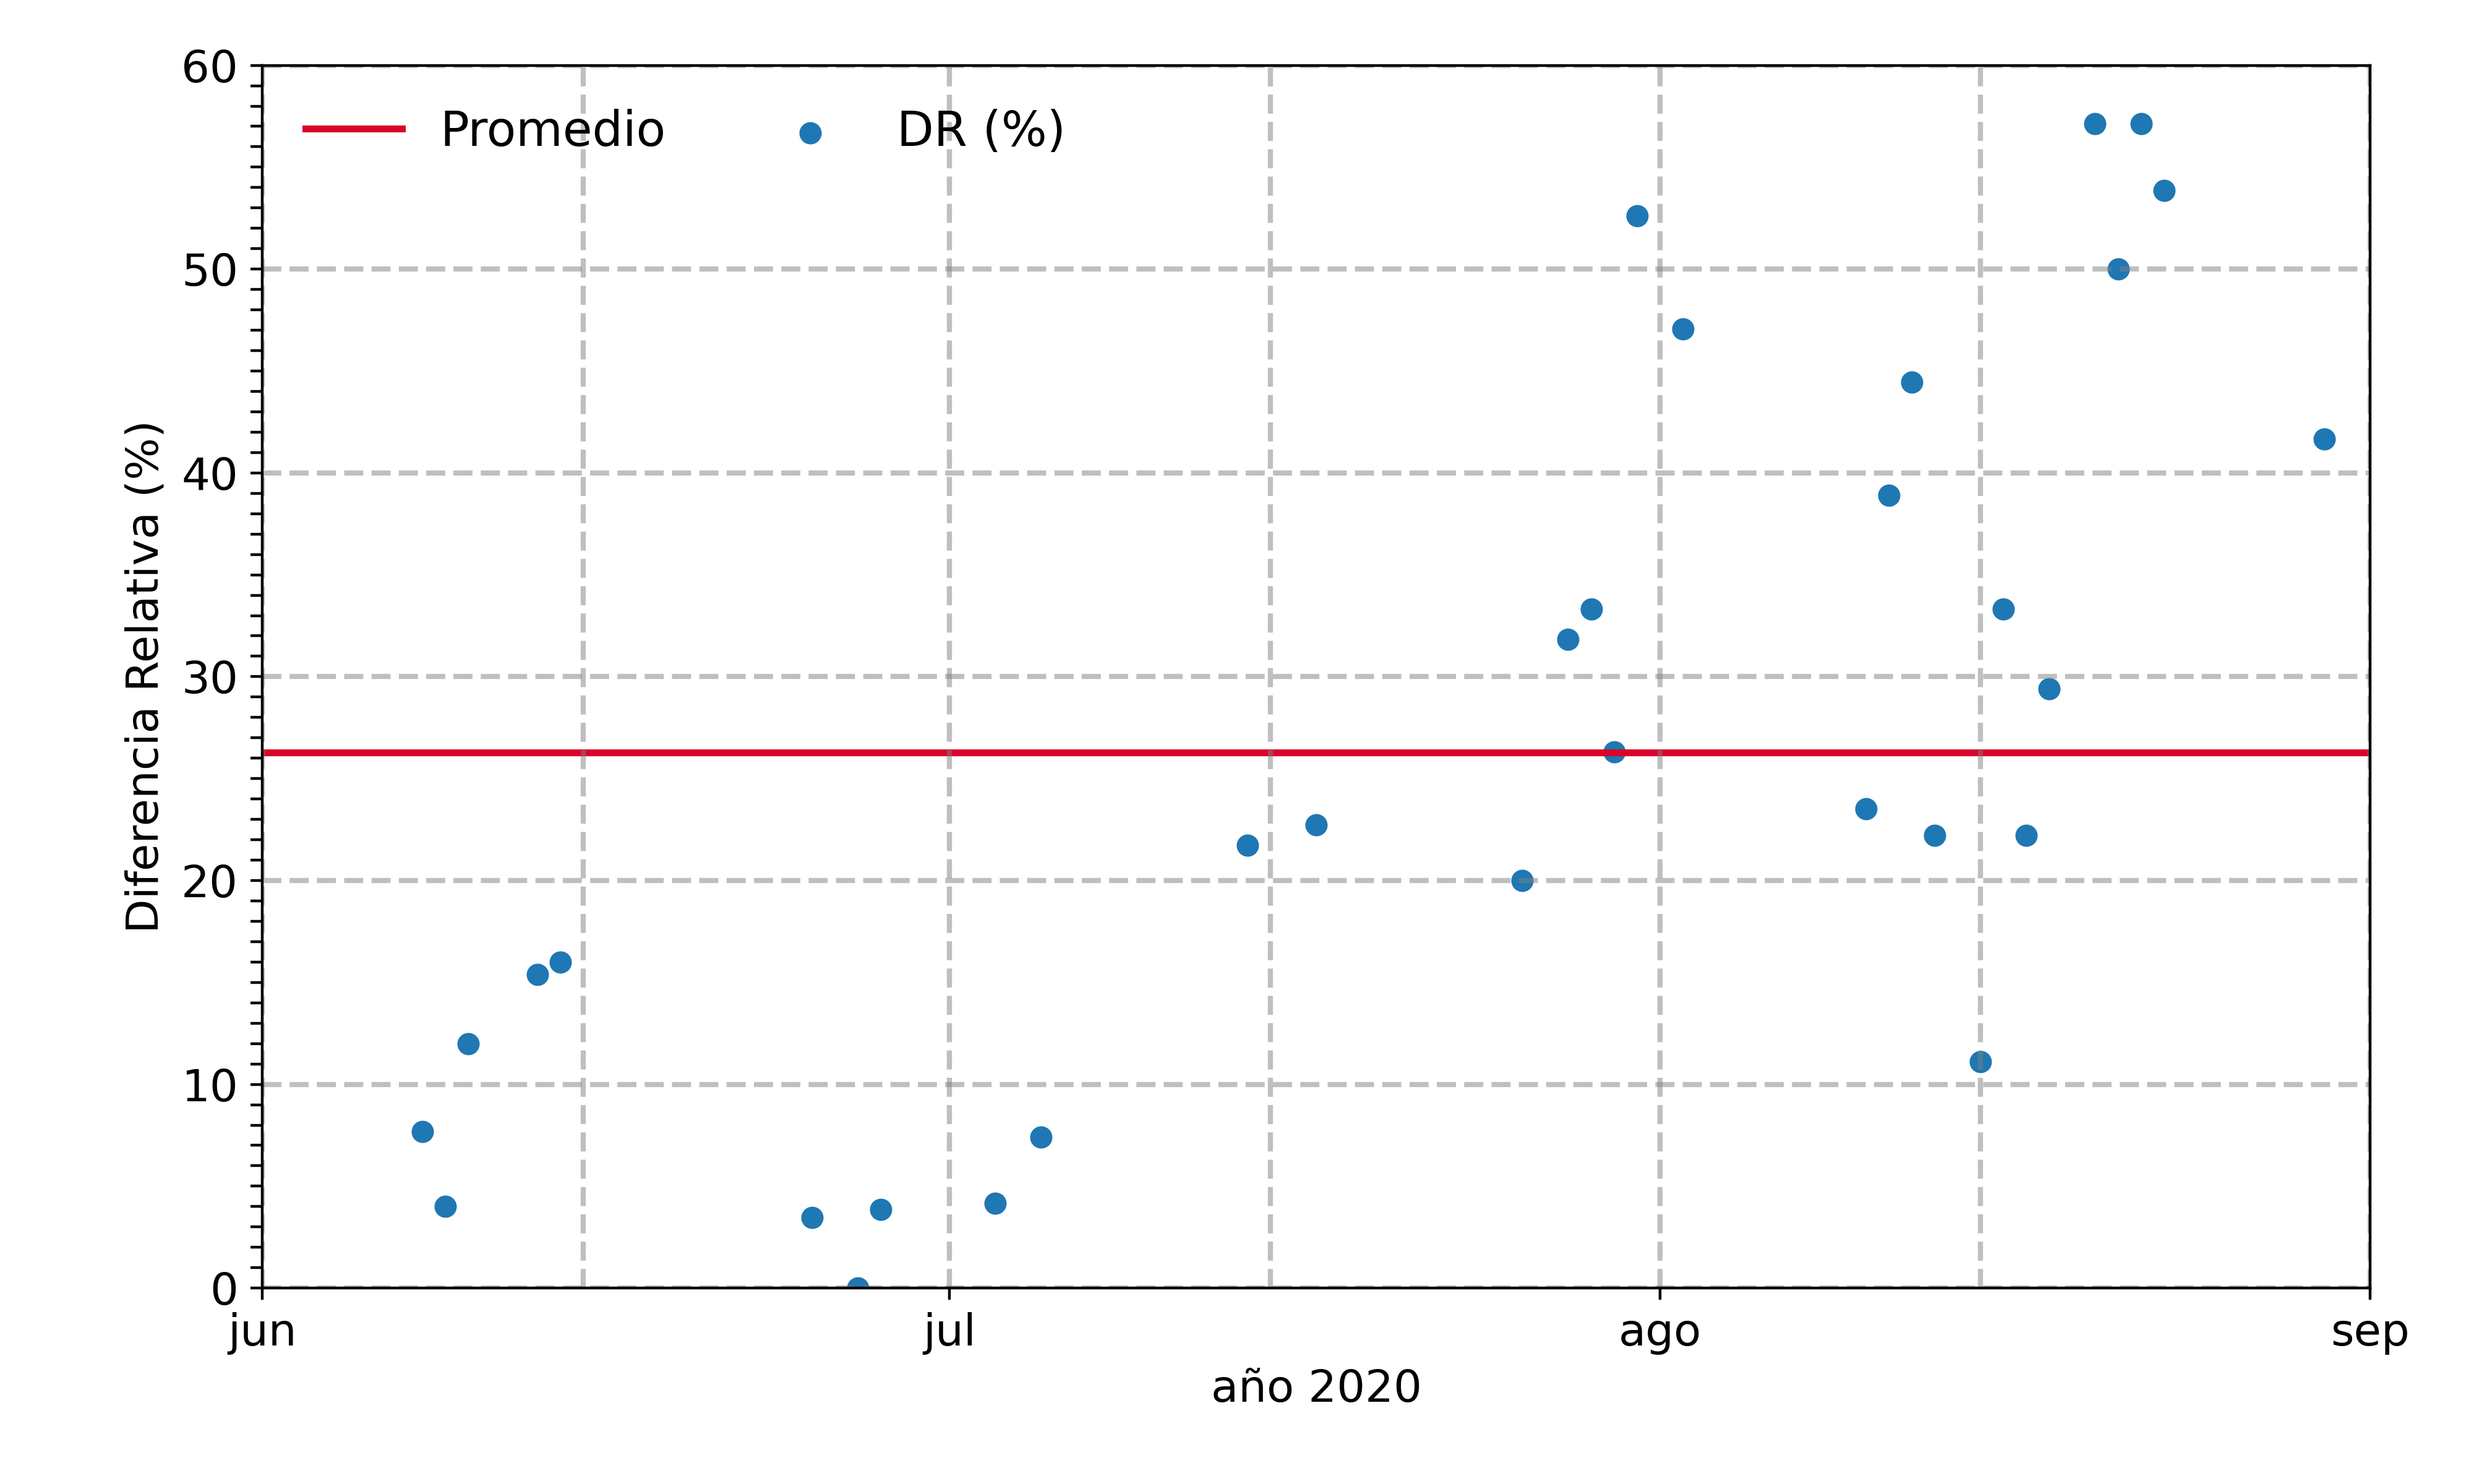
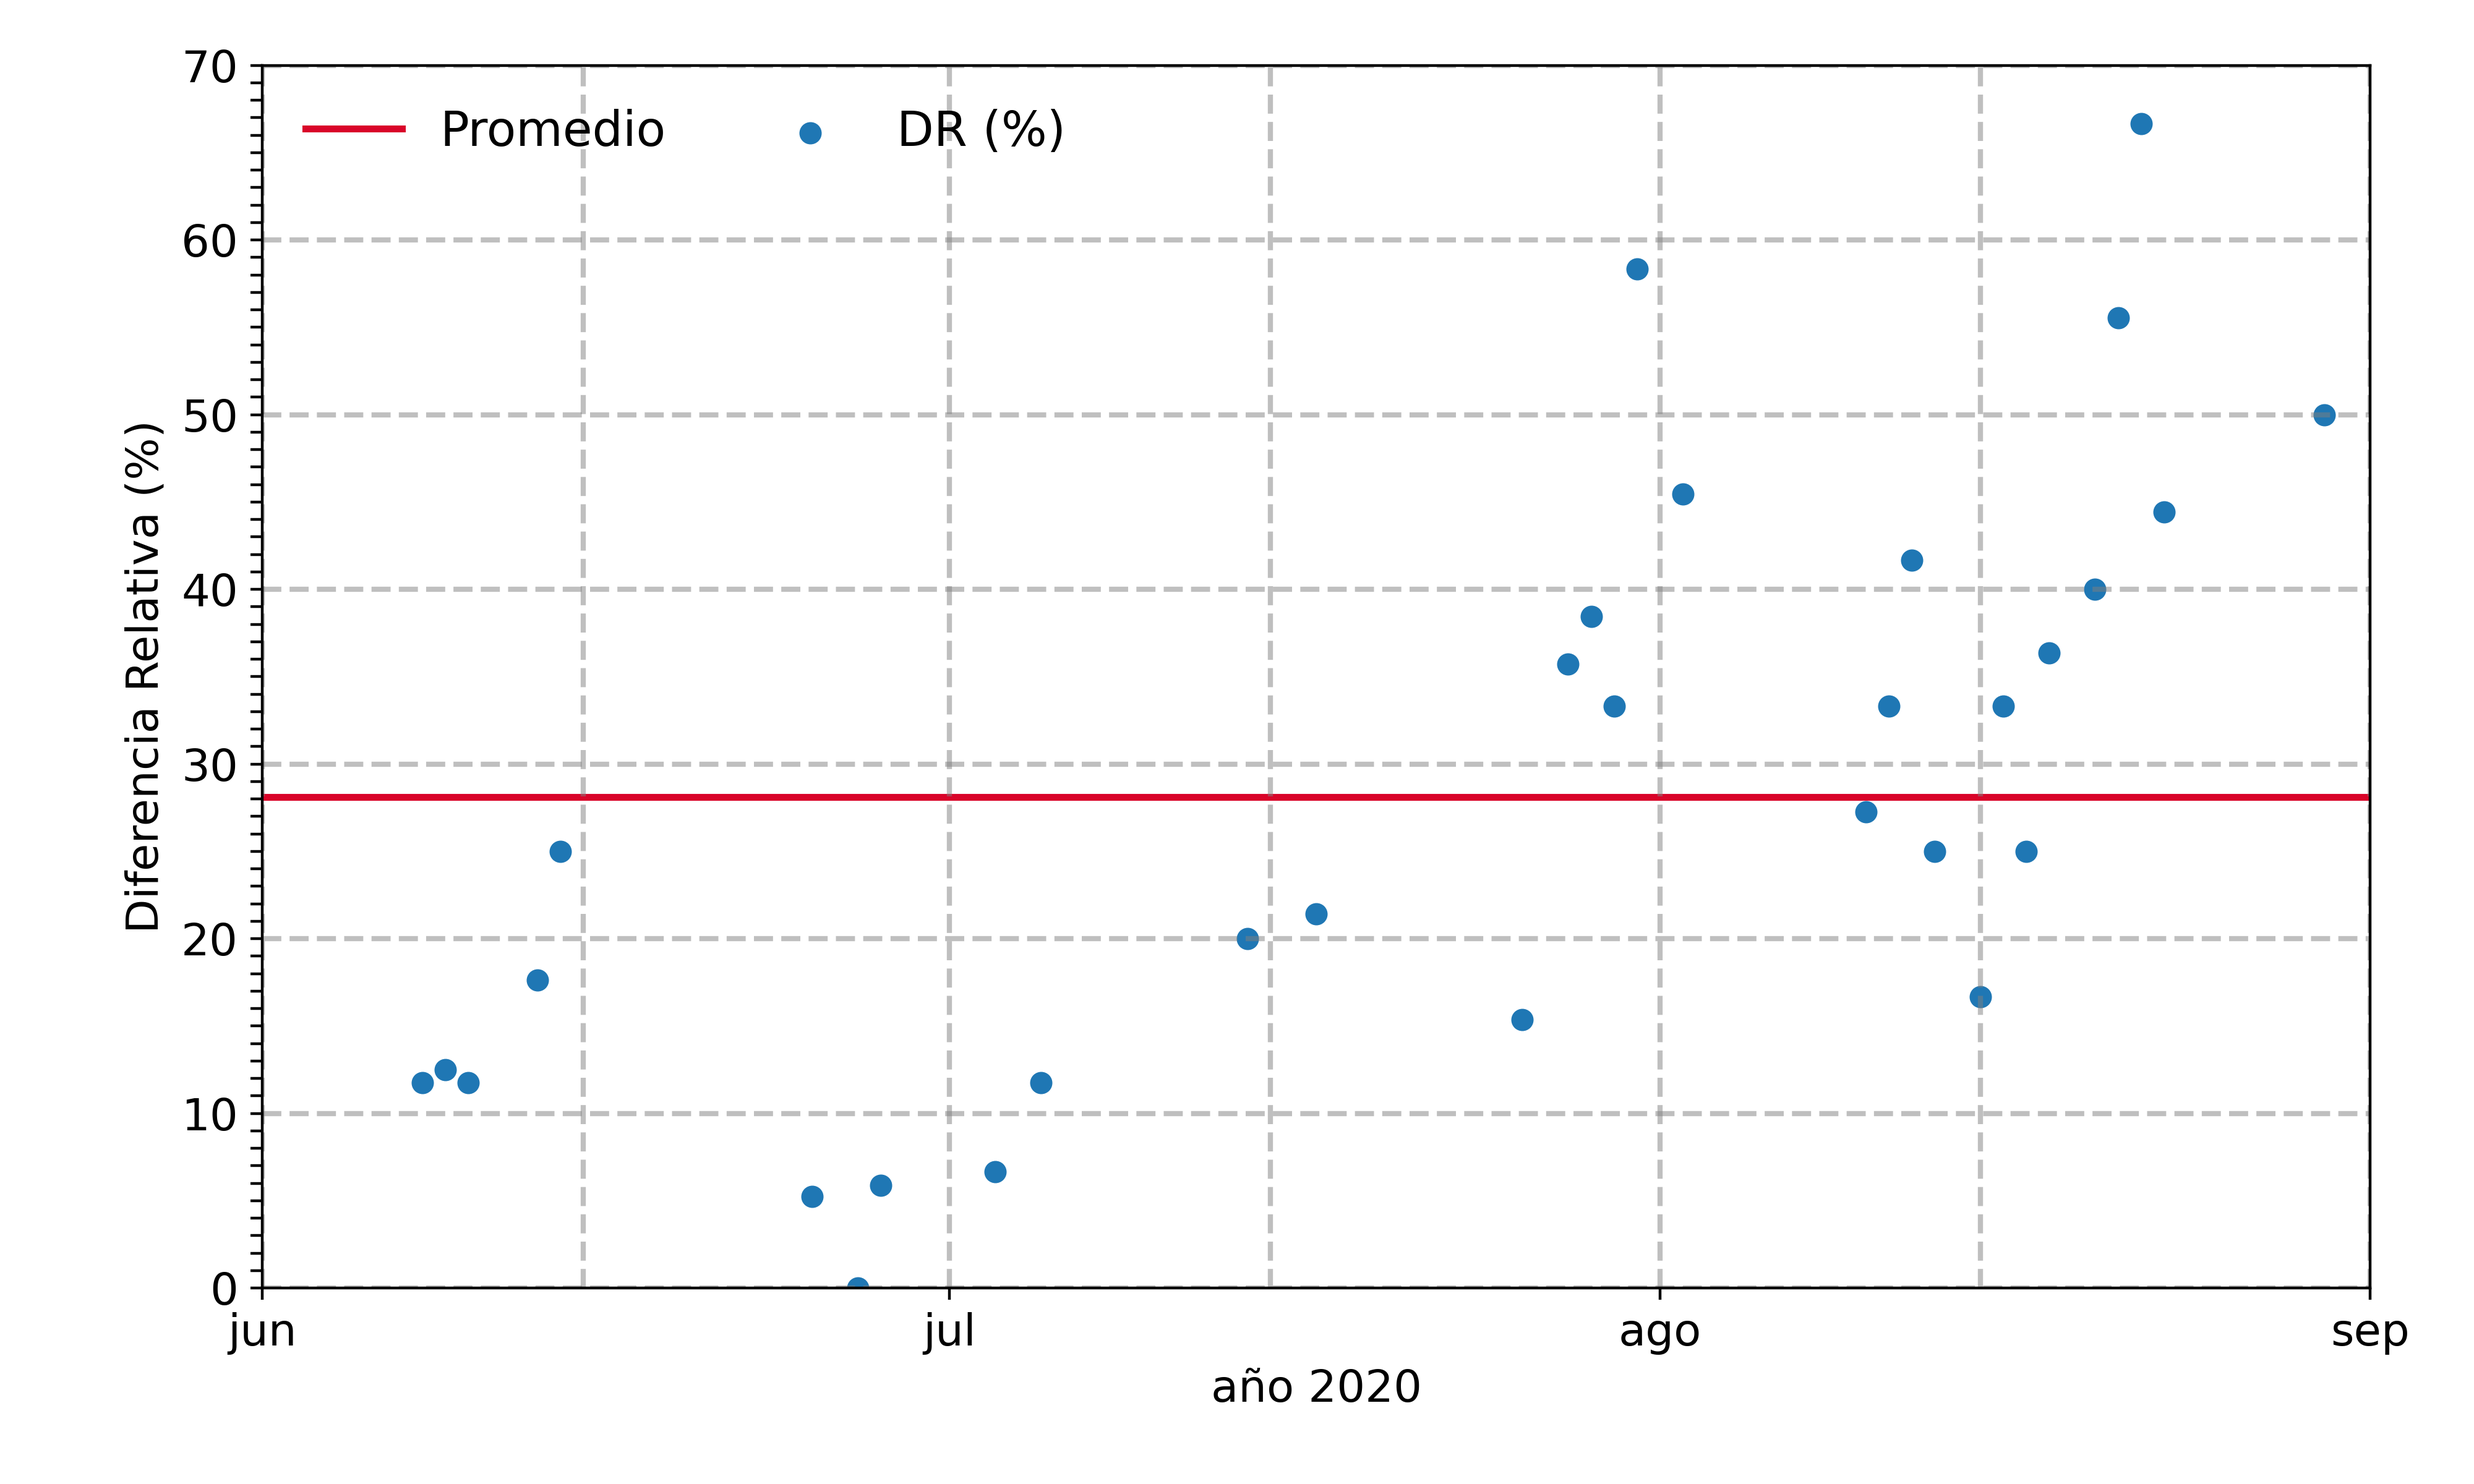
Change xy limits

diff --git a/Scripts/Obtain_doses.py b/Scripts/Obtain_doses.py
@@ -31,7 +31,7 @@ def obtain_doses(hour: list, data: list, lim: float, n: int):
 parameters = {"path data": "../Results/TUV/",
               "path results": "../Data/",
               "file results": "Doses_time",
-              "dataset": {"AOD": "0.30",
+              "dataset": {"AOD": "Binary search",
                           "Ozone": "260"},
               "Vitamin Doses": 136,
               "1/4 MED": 250/4,
@@ -43,6 +43,7 @@ file_result = open("{}{}{}.csv".format(parameters["path results"],
                                        ID),
                    "w")
 file_result.write("Date,vitamin,1/4 MED,1 MED\n")
+hours_initial = []
 for file in files:
     date = file.replace("{}.csv".format(ID), "")
     hour, uv_list, vitamin_list = np.loadtxt("{}{}".format(parameters["path data"],
@@ -52,6 +53,7 @@ for file in files:
                                              usecols=[0, 2, 3],
                                              unpack=True)
     hour_initial = obtain_solar_noon_hour(uv_list)
+    hours_initial.append(hour[hour_initial])
     time_vitamin = obtain_doses(hour,
                                 vitamin_list,
                                 parameters["Vitamin Doses"],
@@ -71,3 +73,8 @@ for file in files:
 file_result.close()
 print("✅ Se ha creado el archivo {}{}.csv".format(parameters["file results"],
                                                   ID))
+hours_initial = np.array(hours_initial)
+print("El calculo de los TES se realizo entre las {} y las {}".format(np.min(hours_initial),
+                                                                      np.max(
+                                                                          hours_initial)
+                                                                      ))

diff --git a/Scripts/Graphics_compare_doses.py b/Scripts/Graphics_compare_doses.py
@@ -50,14 +50,14 @@ parameters = {"path data": "../Data/",
               "date initial": "2020-06-01",
               "date final": "2020-09-01",
               "dataset doses": "1/4 MED",
-              "y limit": 35,
+              "y limit": 25,
               "y delta": 5,
               "fontsize": 12,
               # The first dataset is used for set the xticks
               "dataset parameters": {"dataset 1": {"AOD": "Binary search",
                                                    "Ozone": "OMI",
                                                    "Color": "#000000",
-                                                   "Title": "Aire con presencia de humo"},
+                                                   "Title": "TES con presencia de humo"},
                                      #  "dataset 2": {"AOD": "Binary search",
                                      #                "Ozone": "260"},
                                      #  "dataset 3": {"AOD": "0.30",
@@ -67,7 +67,7 @@ parameters = {"path data": "../Data/",
                                      "dataset 4": {"AOD": "0.30",
                                                    "Ozone": "OMI",
                                                    "Color": "#e85d04",
-                                                   "Title": "Aire en condiciones típicas", },
+                                                   "Title": "TES en condiciones normales", },
                                      },
               }
 plt.subplots(figsize=(10, 6))

diff --git a/Scripts/Graphics_doses_RD.py b/Scripts/Graphics_doses_RD.py
@@ -35,6 +35,15 @@ def obtain_RD(data1=pd.DataFrame(), data2=pd.DataFrame(), parameters={}):
     return data
 
 
+def mean_and_std_from_TES(data: pd.DataFrame()):
+    data = data.drop("RD", 1)
+    data = data.describe()
+    index = data.index
+    index = index.drop(["mean", "std"])
+    data = data.drop(index)
+    print(data)
+
+
 parameters = {"path data": "../Data/",
               "path graphics": "../Graphics/",
               "file data": "Doses_time",
@@ -43,7 +52,7 @@ parameters = {"path data": "../Data/",
               "date initial": "2020-06-01",
               "date final": "2020-09-01",
               "dataset doses": "1/4 MED",
-              "y limit": 60,
+              "y limit": 70,
               "y delta": 10,
               "fontsize": 13,
               # The first dataset is used for set the xticks
@@ -70,11 +79,13 @@ data = obtain_RD(data1,
                  data2,
                  parameters)
 mean = data.mean()
+print(mean)
 dates = [pd.to_datetime(parameters["date initial"]),
          pd.to_datetime(parameters["date final"])]
 data["RD"] = data["RD"].round(2)
 data.to_csv("{}{}".format(parameters["path data"],
                           parameters["file results"]))
+mean_and_std_from_TES(data)
 plt.subplots(figsize=(10, 6))
 plt.plot(dates, [mean["RD"], mean["RD"]],
          color="#d90429",

diff --git a/Scripts/Graphics_linear_regression_TES.py b/Scripts/Graphics_linear_regression_TES.py
@@ -69,9 +69,9 @@ parameters = {"path data": "../Data/",
               "date initial": "2020-06-01",
               "date final": "2020-09-01",
               "dataset doses": "1/4 MED",
-              "y limit": [16, 32],
+              "y limit": [10, 22],
               "y delta": 2,
-              "x limit": [10, 30],
+              "x limit": [6, 20],
               "x delta": 2,
               "fontsize": 13,
               # The first dataset is used for set the xticks
@@ -112,7 +112,7 @@ plt.plot(parameters["x limit"], line,
          lw=2)
 plt.xlim(parameters["x limit"][0],
          parameters["x limit"][1])
-plt.xlabel("TES en condiciones típicas (min)",
+plt.xlabel("TES en condiciones normales (min)",
            fontsize=parameters["fontsize"])
 plt.xticks(obtain_ticks(parameters["x limit"],
                         parameters["x delta"]))

diff --git a/Scripts/Graphics_Daily_data.py b/Scripts/Graphics_Daily_data.py
@@ -61,7 +61,7 @@ parameters = {
     "path data": "../Data/",
     "path TUV": "../Results/TUV/",
     "file Davis": "data_Davis.csv",
-    "date initial": "2020-05-12",
+    "date initial": "2020-08-15",
     "date final": "2020-08-28",
     "dataset": {"AOD": "Binary search",
                 "Ozone": "260"}
